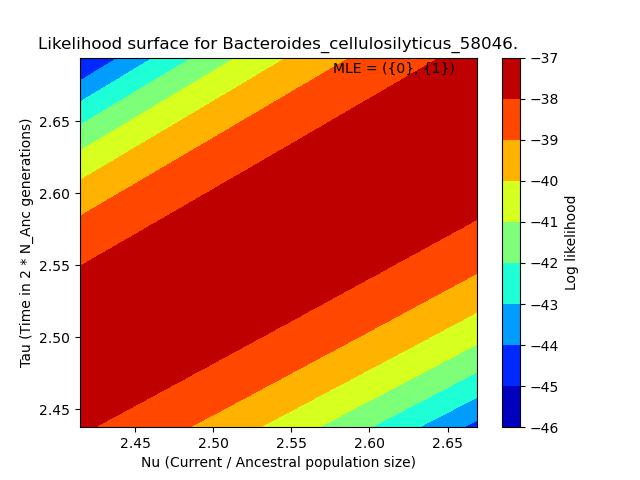
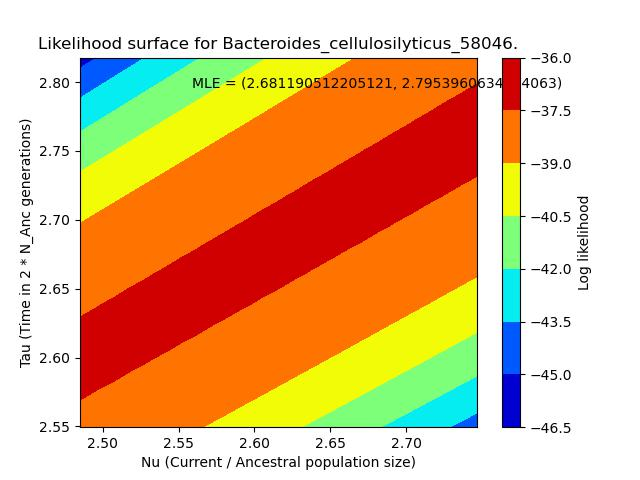
B. cell

diff --git a/Scripts/plot_likelihood.py b/Scripts/plot_likelihood.py
@@ -519,10 +519,10 @@ class PlotLikelihood():
                 # cbar.ax.set_ylabel('Log likelihood')
                 plt.title('Likelihood surface for {0}.'.format(species))
                 # plt.text(best_params[0], best_params[1], 
-                #          'MLE = ({0}, {1})'.replace(str(best_params[0]),
+                #          'MLE = ({0}, {1})'.format(str(best_params[0]),
                 #                                     str(best_params[1])))
-                label = 'MLE = ({0}, {1})'.replace(str(best_params[0]),
-                                                   str(best_params[1]))
+                label = 'MLE = ({0}, {1})'.format(str(best_params[0]),
+                                                  str(best_params[1]))
                 plt.annotate(label, # this is the text
                              (best_params[0], best_params[1]), # these are the coordinates to position the label
                              textcoords="offset points", # how to position the text
